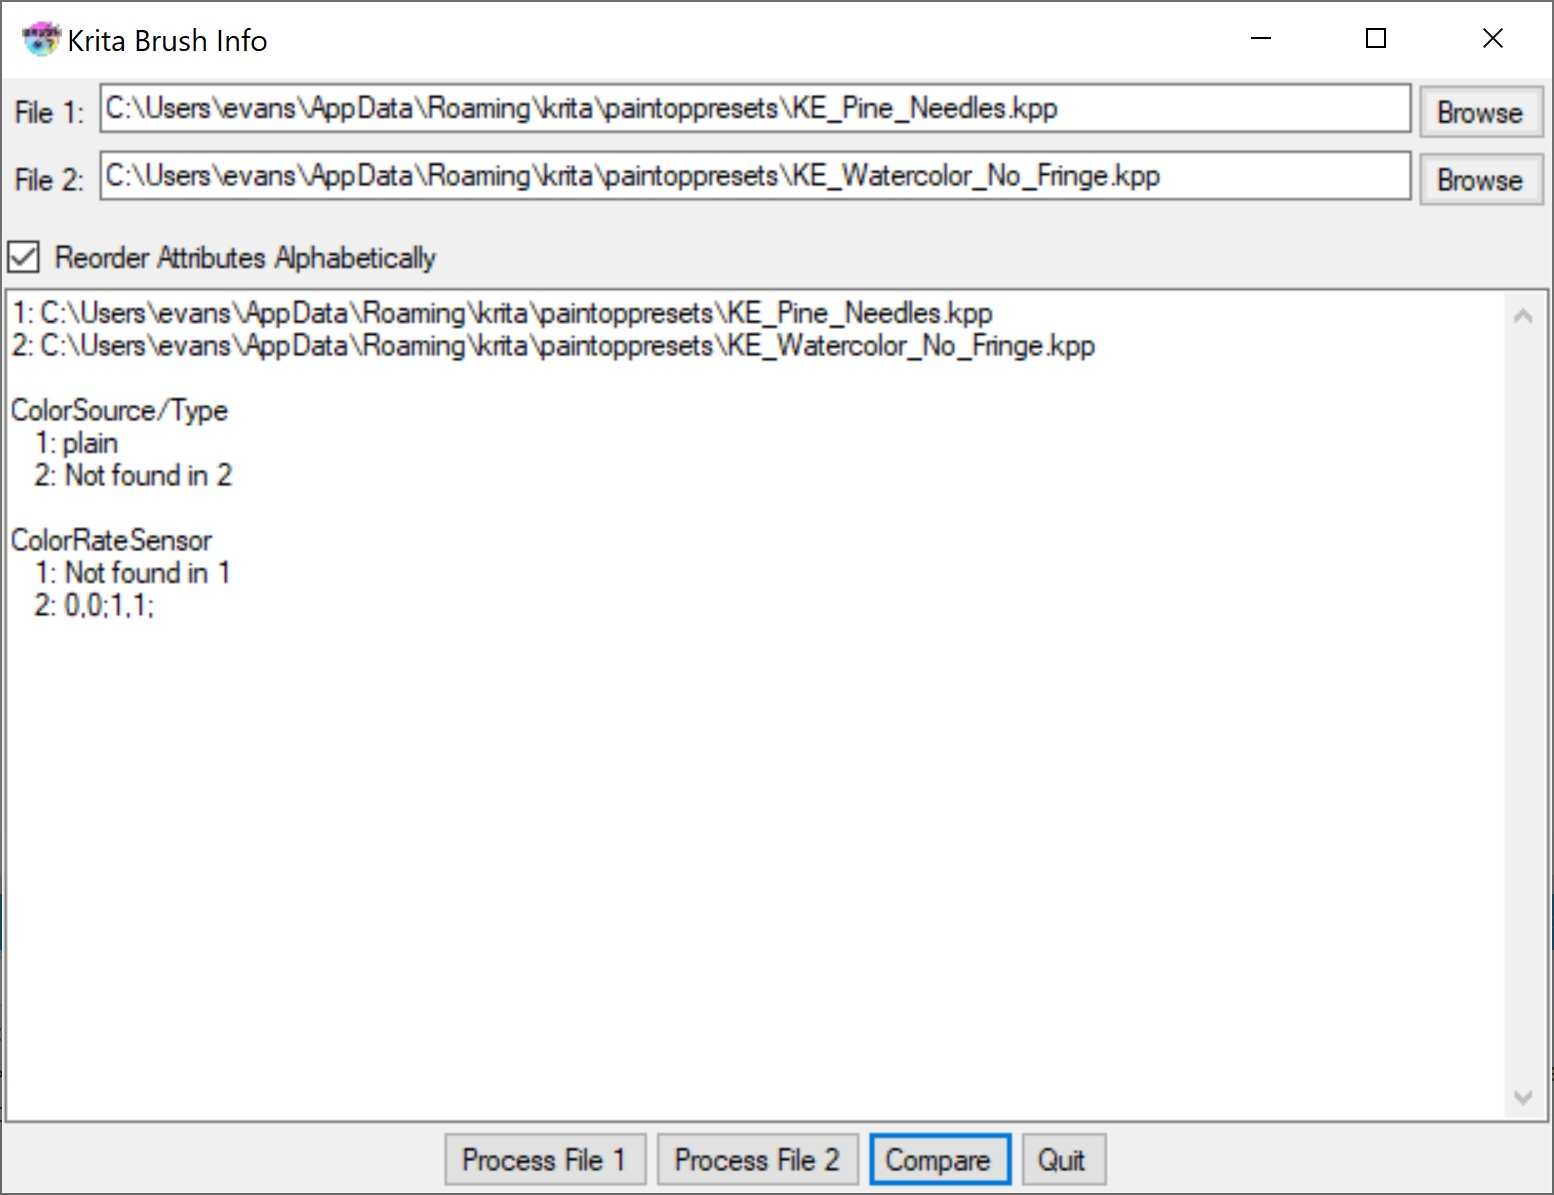
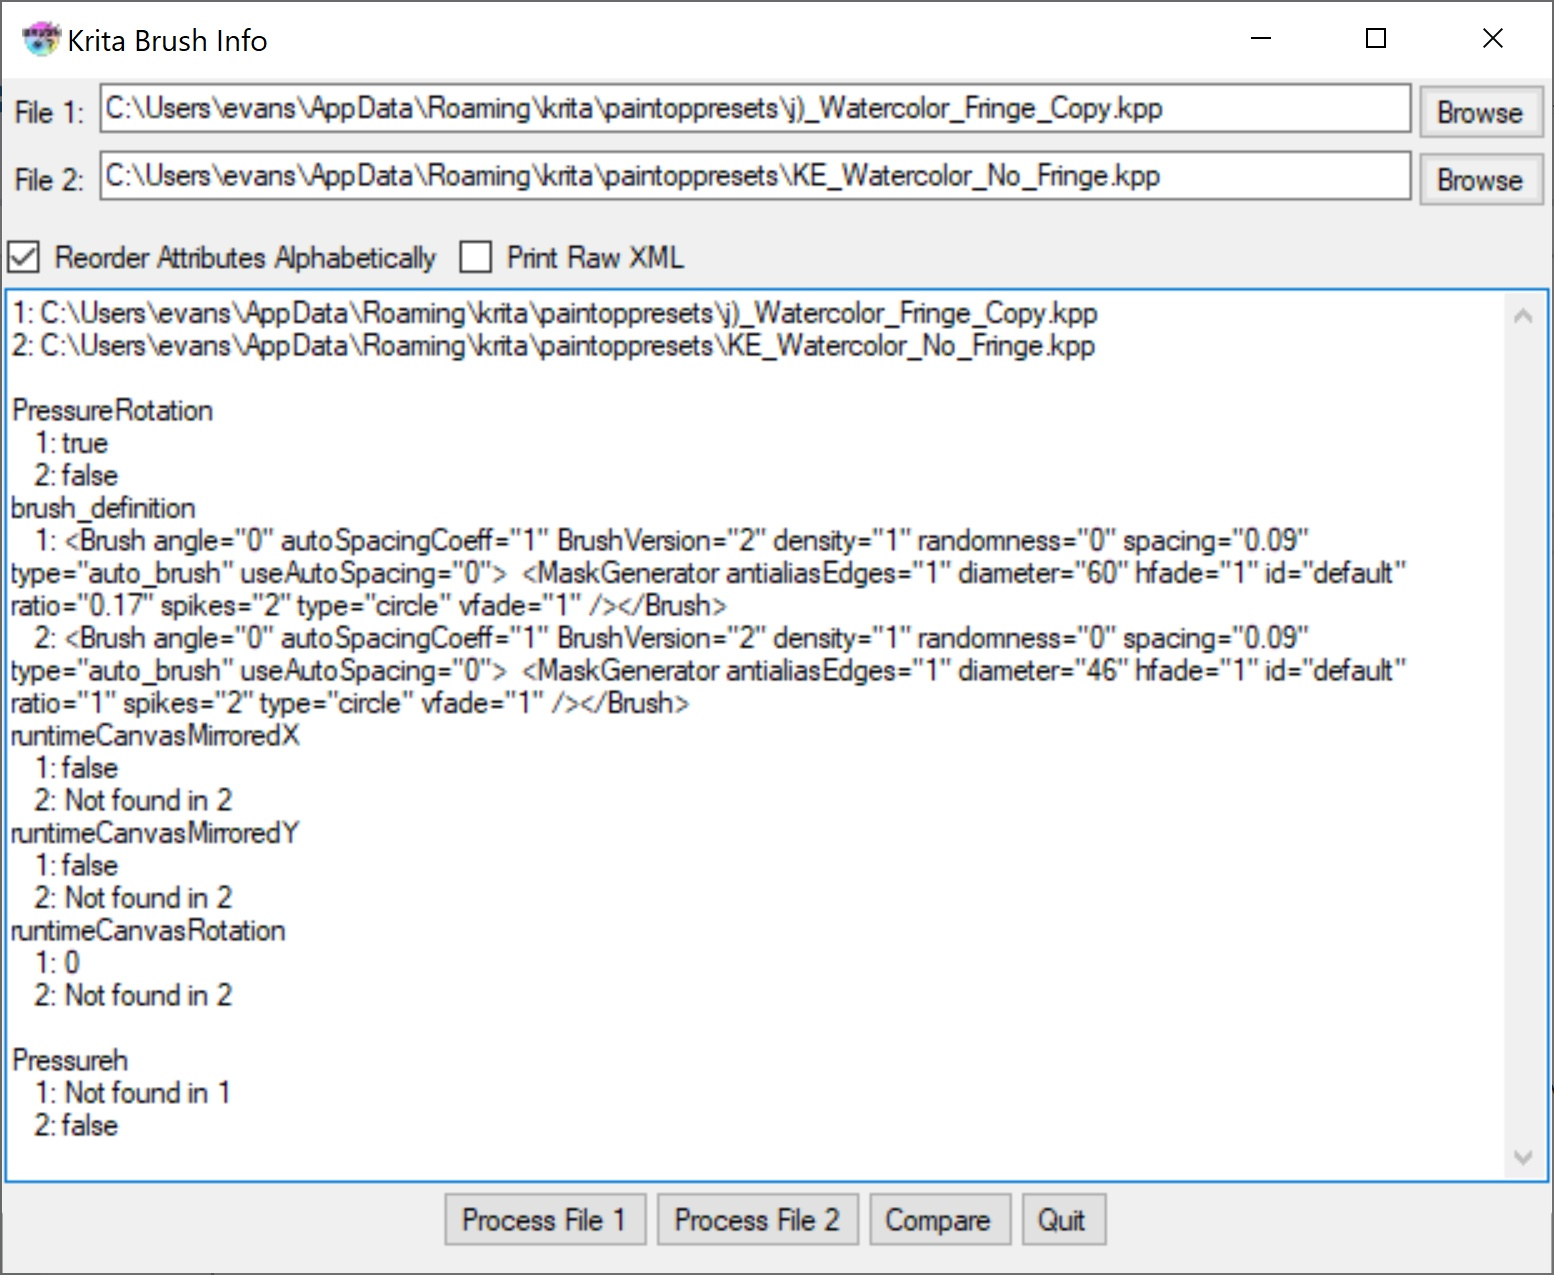
Fixed a bug in compare.  Now seems to be working.  Replaced the screenshot in Help.

Changed region(s): [[0.0, 0.0, 1.0, 1.0], [0.9884, 0.9908, 1.0, 1.0]]

diff --git a/Krita Brush Info/MainForm.cs b/Krita Brush Info/MainForm.cs
@@ -383,7 +383,7 @@ namespace KritaBrushInfo {
                     textBoxInfo.AppendText(param1.Name + NL);
                     textBoxInfo.AppendText("   1: " + param1.Value + NL);
                     textBoxInfo.AppendText("   2: Not found in 2" + NL);
-                    break;
+                    continue;
                 }
                 if (found && !param1.equalsExceptType(foundParam)) {
                     textBoxInfo.AppendText(param1.Name + NL);
